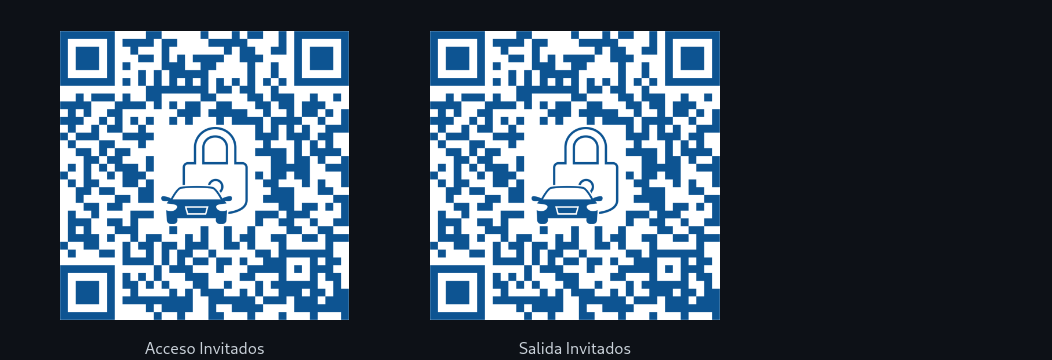
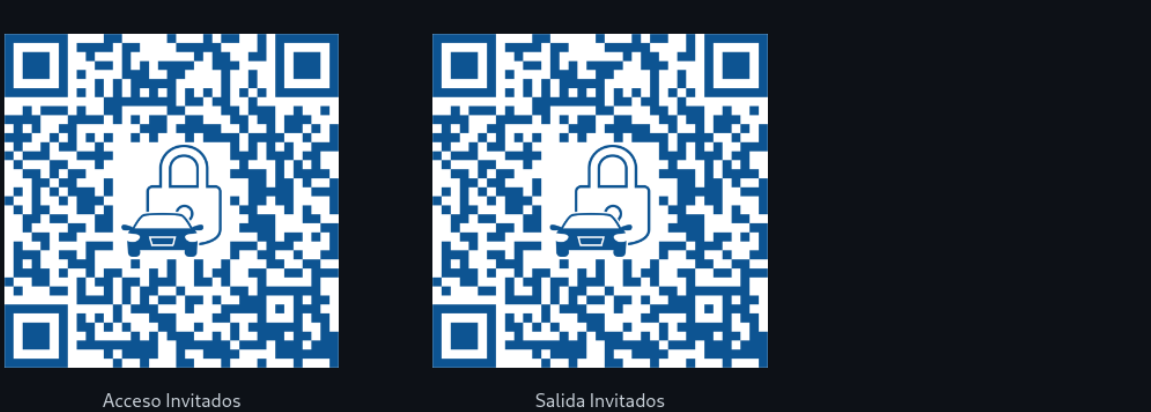
update readme.md

diff --git a/README.md b/README.md
@@ -34,10 +34,12 @@ Un sitio web de administración y gestión el cual es accesible desde [SmartPark
 
 Un sitio web para los usuarios móviles, este es accesible desde [SmartParking Mobile](http://190.114.253.237:3000/api/mobile). Este sitio es una simulación de la aplicación móvil, por lo que se recomienda acceder desde un dispositivo móvil.
 
+## Documentación y endpoints
+
+Un rest endpoint es una URL que identifica un recurso. Cuando se accede a un rest endpoint, el servidor devolverá una representación del recurso solicitado. En este caso, el servidor devuelve un JSON con la información solicitada. La documentación web sobre los endpoints se encuentra en [SmartParking Docs](http://190.114.253.237:3000/api/docs/)
+
 ### Acceso y salida de invitados mediante códigos QR
 
 Para el acceso y salida de invitados se ha implementado un sistema de códigos QR, los cuales están presentes en las entradas y salidas de los estacionamientos y redirigen a un sistema embedido para registrar una entrada o salida del recinto. 
 
-<div align="center">
-  <img src="./Backend/public/images/qrs.png" alt="Descripción de la imagen" >
-</div>
+<img src="./Backend/public/images/qrs.png" alt="Descripción de la imagen" >
